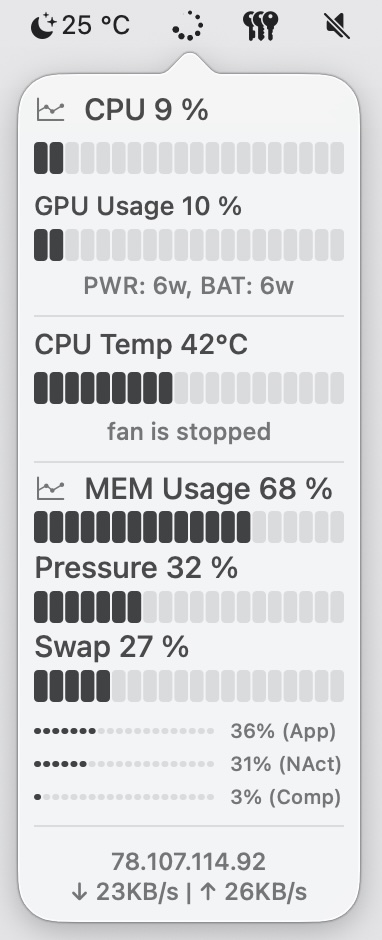
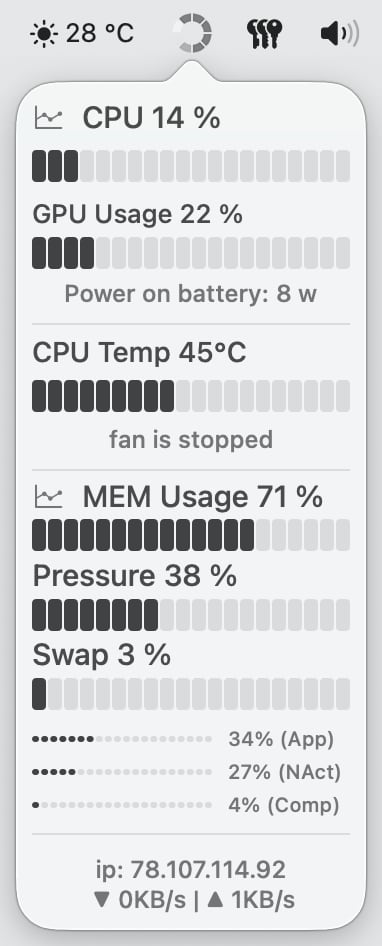
Bump 5.1.1

diff --git a/CHANGELOG.md b/CHANGELOG.md
@@ -1,5 +1,11 @@
 # Changelog
 
+
+## 5.1.1
+
+- Fix power text in Russian
+- Now we can use static icons
+
 ## 5.1.0
 
 - Fix mute audio bug
